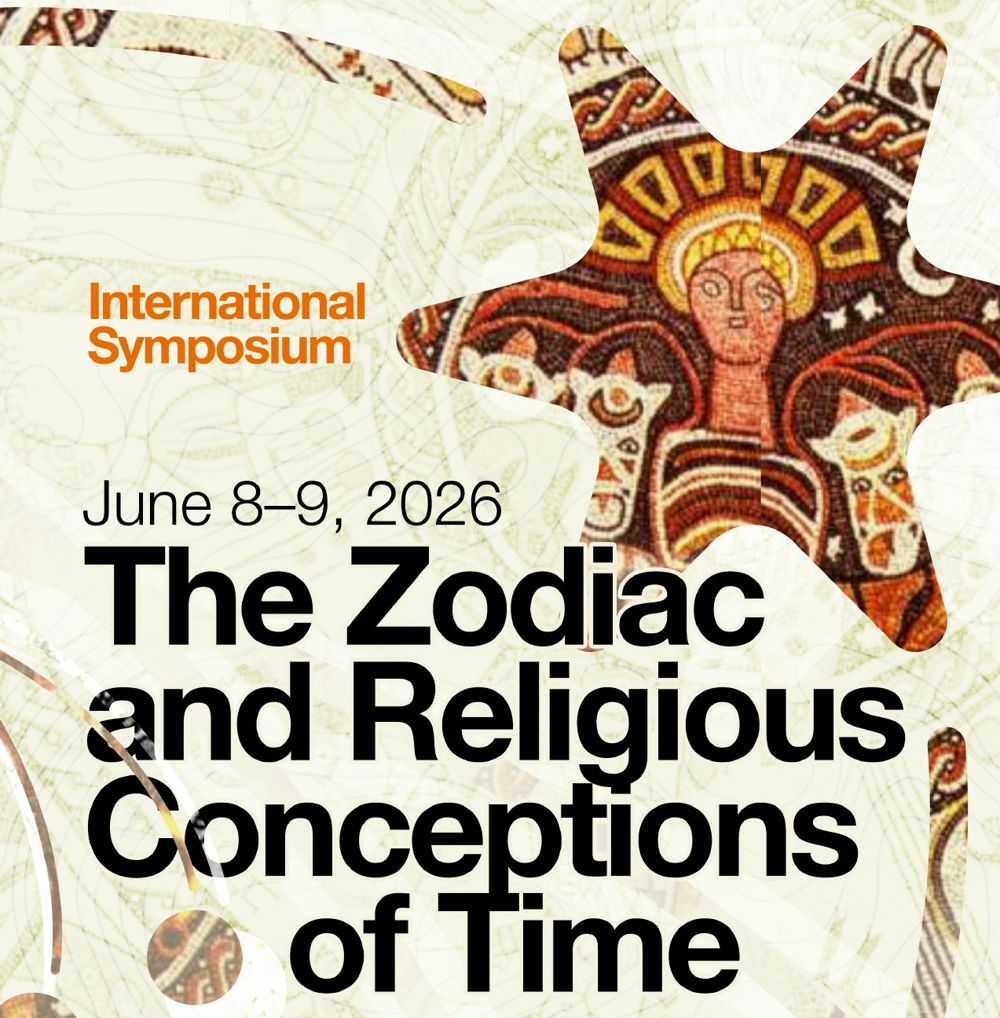
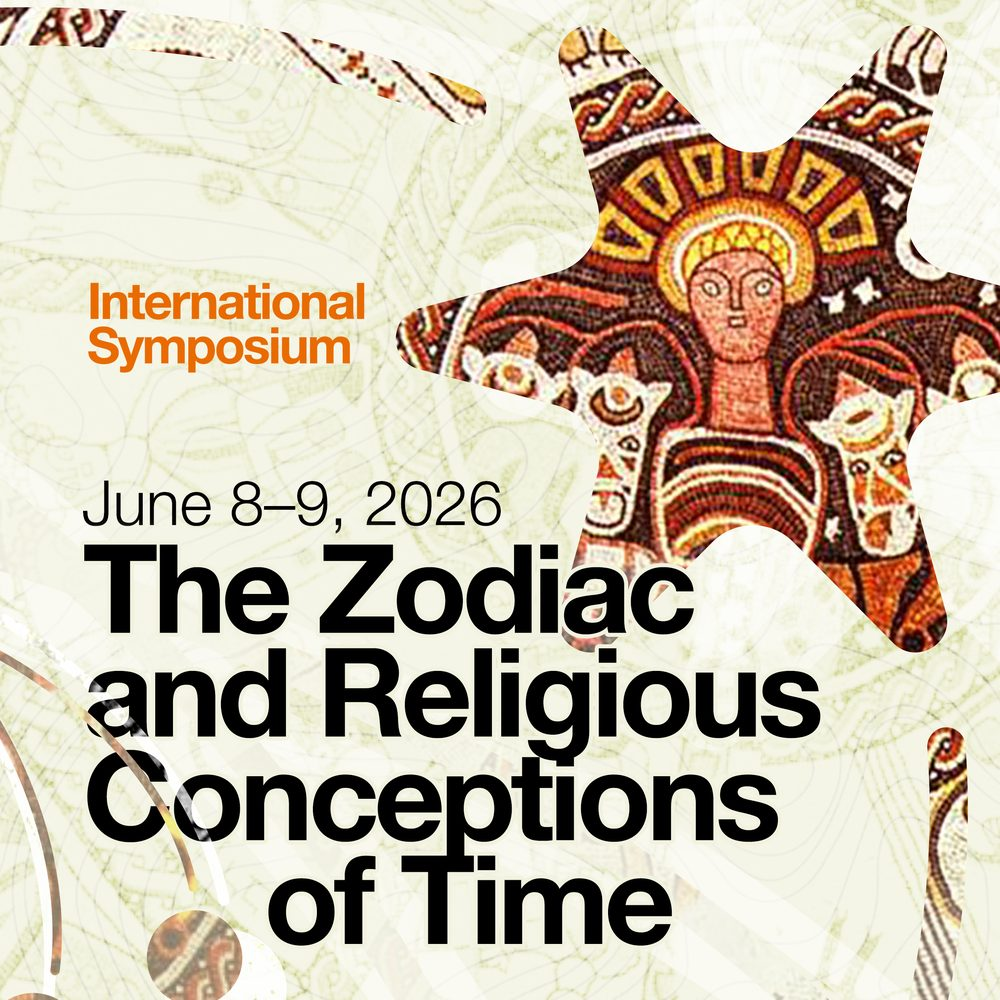
Agenda em faixa cinza, ícones para assinar e cartaz do zodíaco refeito
- A seção Agenda ganha uma faixa cinza neutra, distinta da primeira coluna.
- Os links longos para assinar a agenda viram ícones (Google Agenda e .ics)
  com rótulo curto e dica ao passar o mouse.
- Detalhe do mosaico (abertura) e cartaz do simpósio recortados de novo a
  partir do arquivo original, sem a falha no rosto da figura central.
- Títulos dos eventos da agenda passam a h3 (ordem de títulos correta).

Claude-Session: https://claude.ai/code/session_01AcRGcAmg9GK3CSriyjhdp5

diff --git a/assets/estilo.css b/assets/estilo.css
@@ -146,7 +146,7 @@ details[open] summary::after{content:"−"}
 .vazio .acao{display:inline-flex;align-items:center;min-height:44px;margin-top:8px;font-weight:600}
 .proximo .dt{font-weight:700;font-size:1.75rem;line-height:1.1;letter-spacing:-.02em}
 .proximo .dt small{display:block;font-size:.875rem;font-weight:600;letter-spacing:0;margin-top:8px}
-.proximo h4{font-weight:700;font-size:1.25rem}
+.proximo h3{font-weight:700;font-size:1.25rem}
 .proximo p{color:var(--cinza);font-size:.875rem}
 .calendario{padding:0 0 var(--p)}
 .calendario iframe{display:block;width:100%;height:620px;border:1px solid var(--fio);background:var(--branco)}
@@ -238,6 +238,20 @@ footer .fim .icones{margin-top:0}
 }
 
 /* ---------- Agenda: links para assinar a agenda do grupo ---------- */
-.assinar{display:flex;flex-wrap:wrap;gap:0 32px;padding-top:16px;padding-bottom:16px}
-.assinar a{display:inline-flex;align-items:center;min-height:44px;font-weight:600;font-size:.875rem}
+.assinar{display:flex;flex-wrap:wrap;align-items:center;gap:0 16px;padding-top:16px;padding-bottom:16px}
+.assinar .icones{margin:0}
+
+/* ---------- Seção em faixa cinza (agenda) ----------
+   Um cinza mais escuro e neutro que o da primeira coluna (#F6F6F4), para separar a seção
+   das vizinhas sem se confundir com a coluna. Os fios da grade continuam visíveis por cima. */
+:root{--faixa:#EAEAE6;--fio-faixa:#D9D9D3}
+.faixa-cinza .g{background:
+  linear-gradient(to right, transparent calc(50% - 1px), var(--fio-faixa) calc(50% - 1px), var(--fio-faixa) 50%, transparent 50%),
+  linear-gradient(to right, transparent calc(75% - 1px), var(--fio-faixa) calc(75% - 1px), var(--fio-faixa) 75%, transparent 75%),
+  linear-gradient(to right, transparent 25%, var(--fio-faixa) 25%, var(--fio-faixa) calc(25% + 1px), var(--faixa) calc(25% + 1px))}
+.faixa-cinza .linha{border-top-color:var(--fio-faixa)}
+.faixa-cinza .proximo .c2-4,.faixa-cinza .assinar{background:var(--faixa)}   /* textos longos não são cortados pelos fios */
+@media (max-width:820px){
+  .faixa-cinza .g{background:var(--faixa)}
+}
 .proximo .dt small{text-transform:none}
